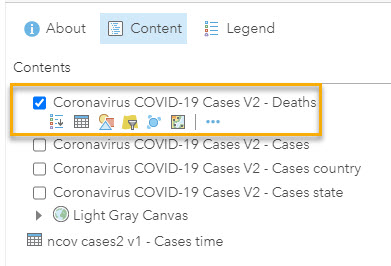
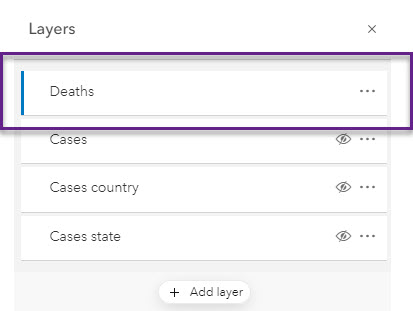
update images and text to reflect new map viewer

diff --git a/content/explore-data.md b/content/explore-data.md
@@ -15,19 +15,17 @@ Click on the red circle located in British Columbia to view a pop-up containing 
 
 You'll notice that there are three entries for British Columbia with the same information.
 
-In the **Contents** pane on the left, there are four layers associated with the data we added from the Living Atlas.
+In the **Layers** pane, there are four layers associated with the data we added from the Living Atlas.
 
-*1*{: .circle .circle-blue} Uncheck the blue checkmarks next to every layer except the layer representing **Deaths**. You'll see that this layer is depicted using the symbol of a black X.
+*1*{: .circle .circle-blue} Hover over each layer next to the ellipsis on the right and click the eye symbol to hide every layer except the one representing **Deaths**. You'll see that this layer is depicted using the symbol of a black X.
 
-*2*{: .circle .circle-blue} Click on the first layer in the **Contents** pane to explore the data and the tools associated with each layer.
+*2*{: .circle .circle-blue} Click on the **Deaths** layer, and you'll notice the properties of this layer appear in another pane on the right side of the map. From this pane, you could also select another layer from the dropdown arrow at the top to view its properties.
 
 ![deathsLyr.jpg](../images/deathsLyr.jpg)
 
-The far left icon associated with the **Deaths** layer represents the legend.
+*3*{: .circle .circle-blue} From the **Layers** pane, click the ellipsis (the three horizontal dots) next to the **Deaths** layer to expand the options available.
 
-*3*{: .circle .circle-blue} If you click on it, the legend symbols will appear below the layer.
-
-*4*{: .circle .circle-blue} Hovering over the next icon reveals that clicking on this will open the attribute table. The table, which contains the underlying data in spreadsheet form, will open at the bottom of your screen. You can click on the grey line at the top center to drag the table up in order to see more rows at one time.
+*4*{: .circle .circle-blue} Click on **Show table** to open the attribute table for this layer.. The table, which contains the underlying data in spreadsheet form, will open at the bottom of your screen. You can click on the up arrow at the top right of the table to see more rows at one time.
 
 *5*{: .circle .circle-blue} Click on the first row in the table and then click the three grey lines in the upper right of the table and select **Center on Selection**.
 Then click **Clear Selection**.

diff --git a/content/change-basemap.md b/content/change-basemap.md
@@ -9,11 +9,11 @@ parent: Create a Web Map
 
 The **Topographic** layer represents the default basemap whenever you open a web map in AGOL. Let's change the basemap to something that looks better with the COVID-19 data.
 
-To Do 
+To Do
 {: .label .label-green }
-From the upper left, click on **Basemap** and select the **Light Gray Canvas**.
+From the left sidebar, click on **Basemap** and select the **Light Gray Canvas**.
 
-*1*{: .circle .circle-blue} Click on the **Save** dropdown arrow in the ribbon above the map and select **Save**.
+*1*{: .circle .circle-blue} Click on the **Save and open>Save** text in the left sidebar which should have a blue dot next to it, prompting you to save your map.
 
 You will need to give the map a title, add tags to make it discoverable later, and a summary.
 

diff --git a/index.md b/index.md
@@ -18,6 +18,8 @@ This workshop introduces complete beginners to the [ArcGIS Online](https://www.a
   - Embed a map in a Story Map
   - Add photos and text to a Story Map
 
+  *Please be aware that this workshop uses data about deaths due to COVID-19 to explore these learning objectives, a subject which might be difficult for some people.
+
 ### **Workshop Outline**
 
 - Create three web maps using ArcGIS Online
